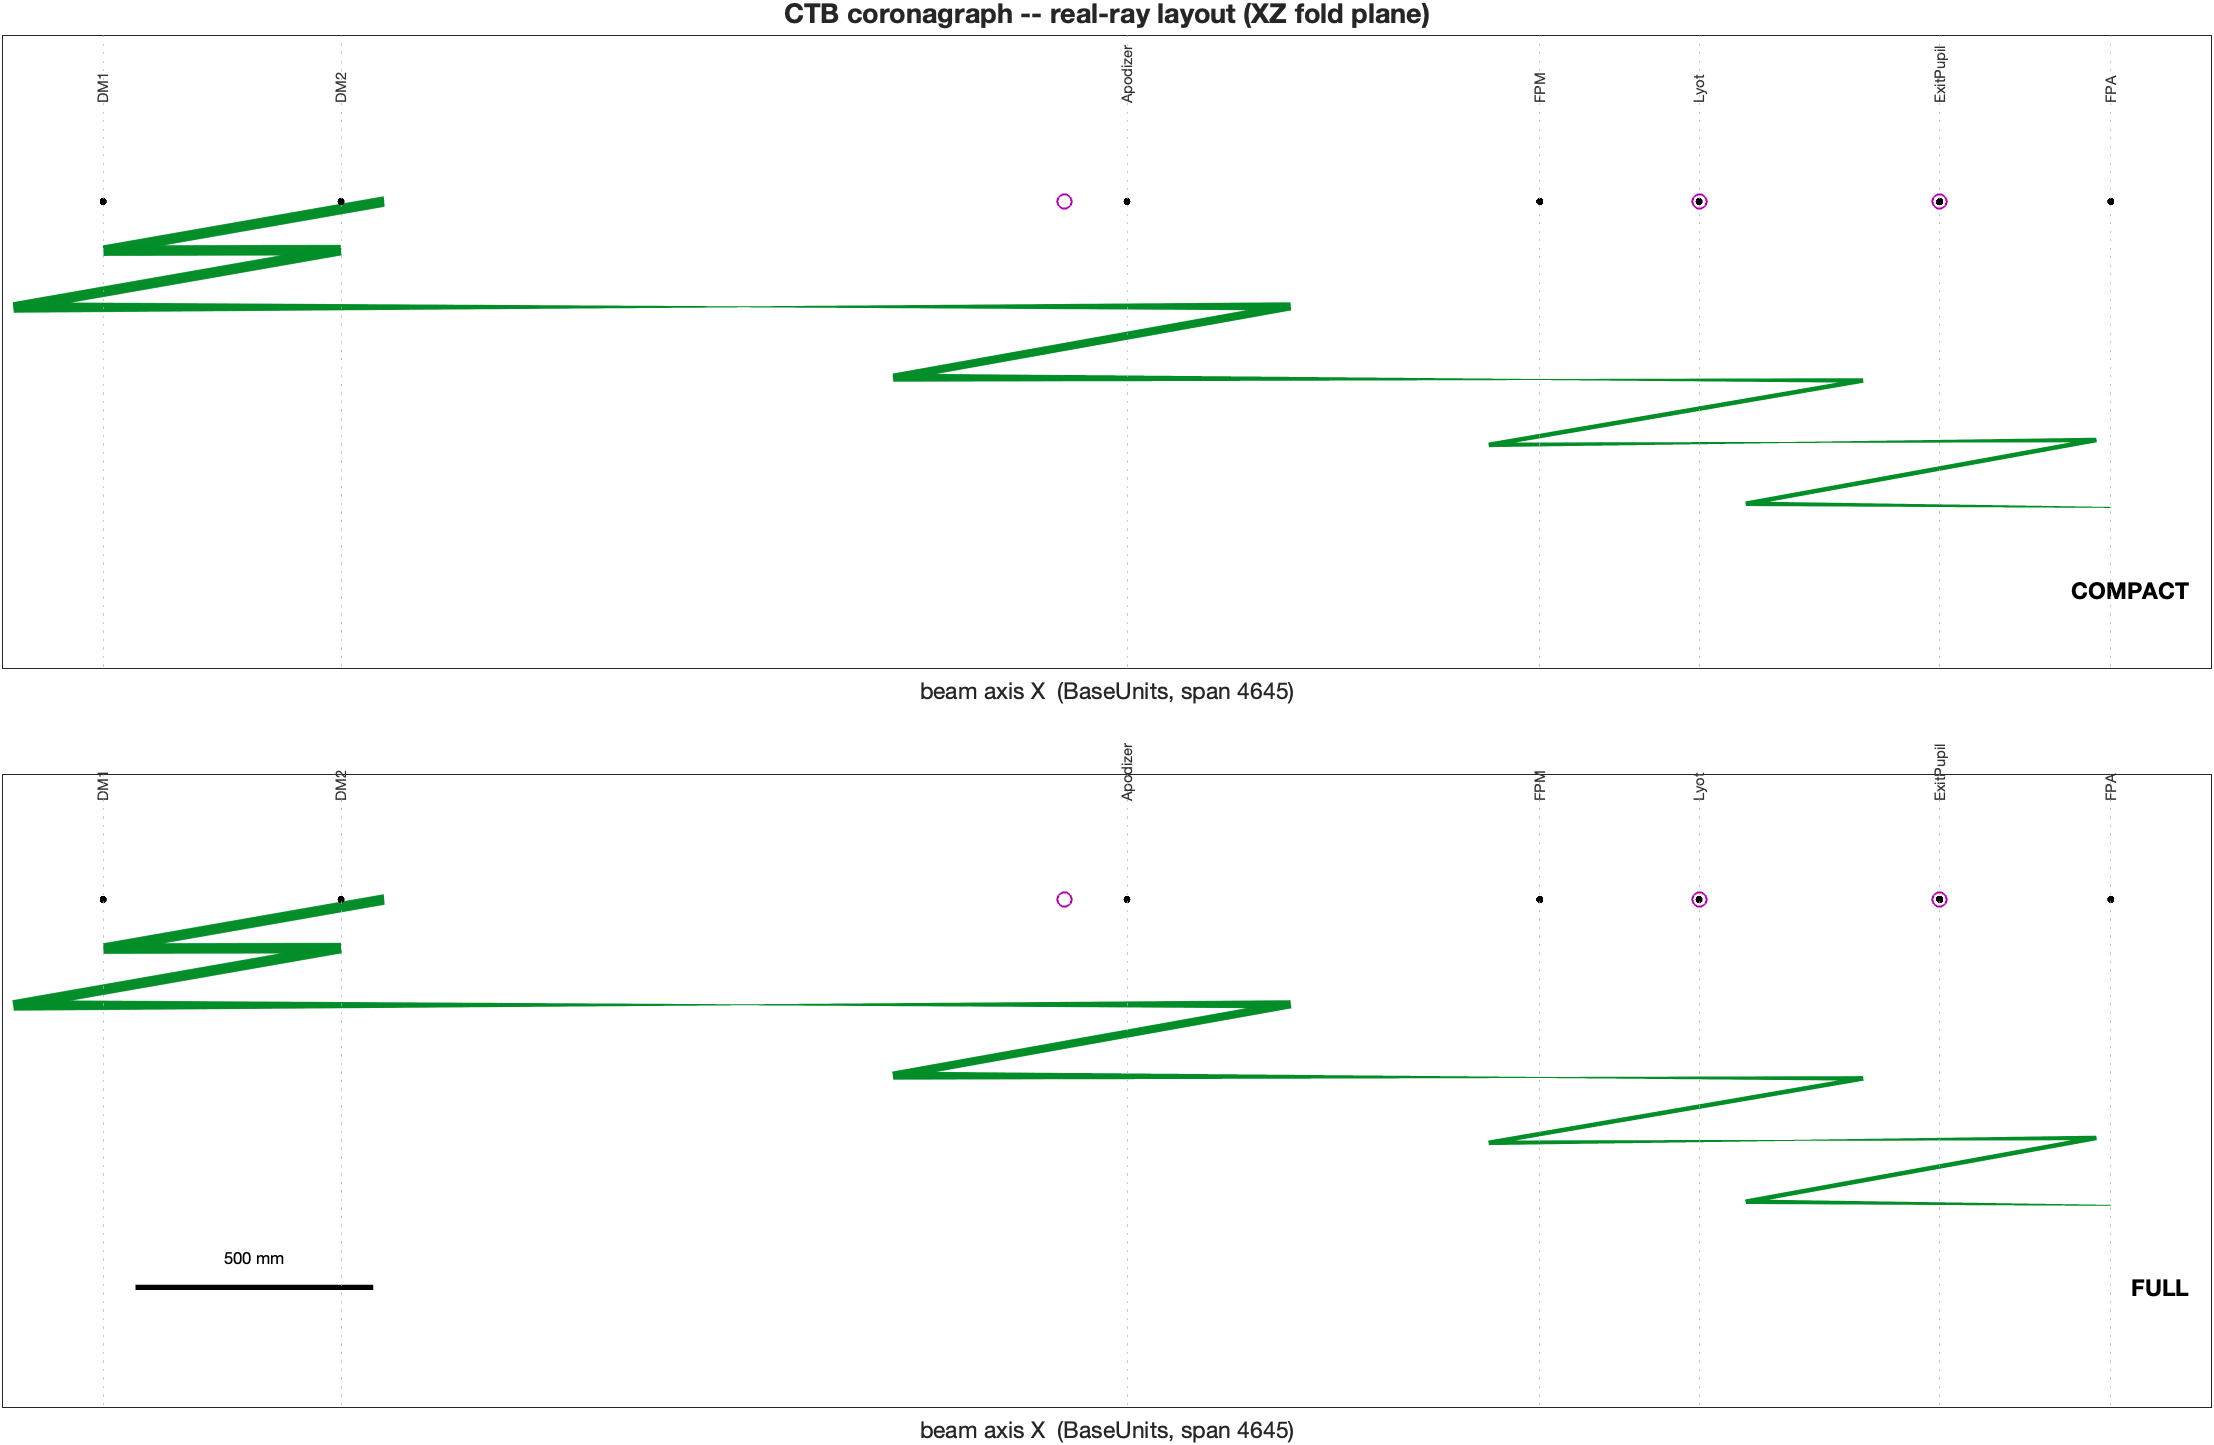
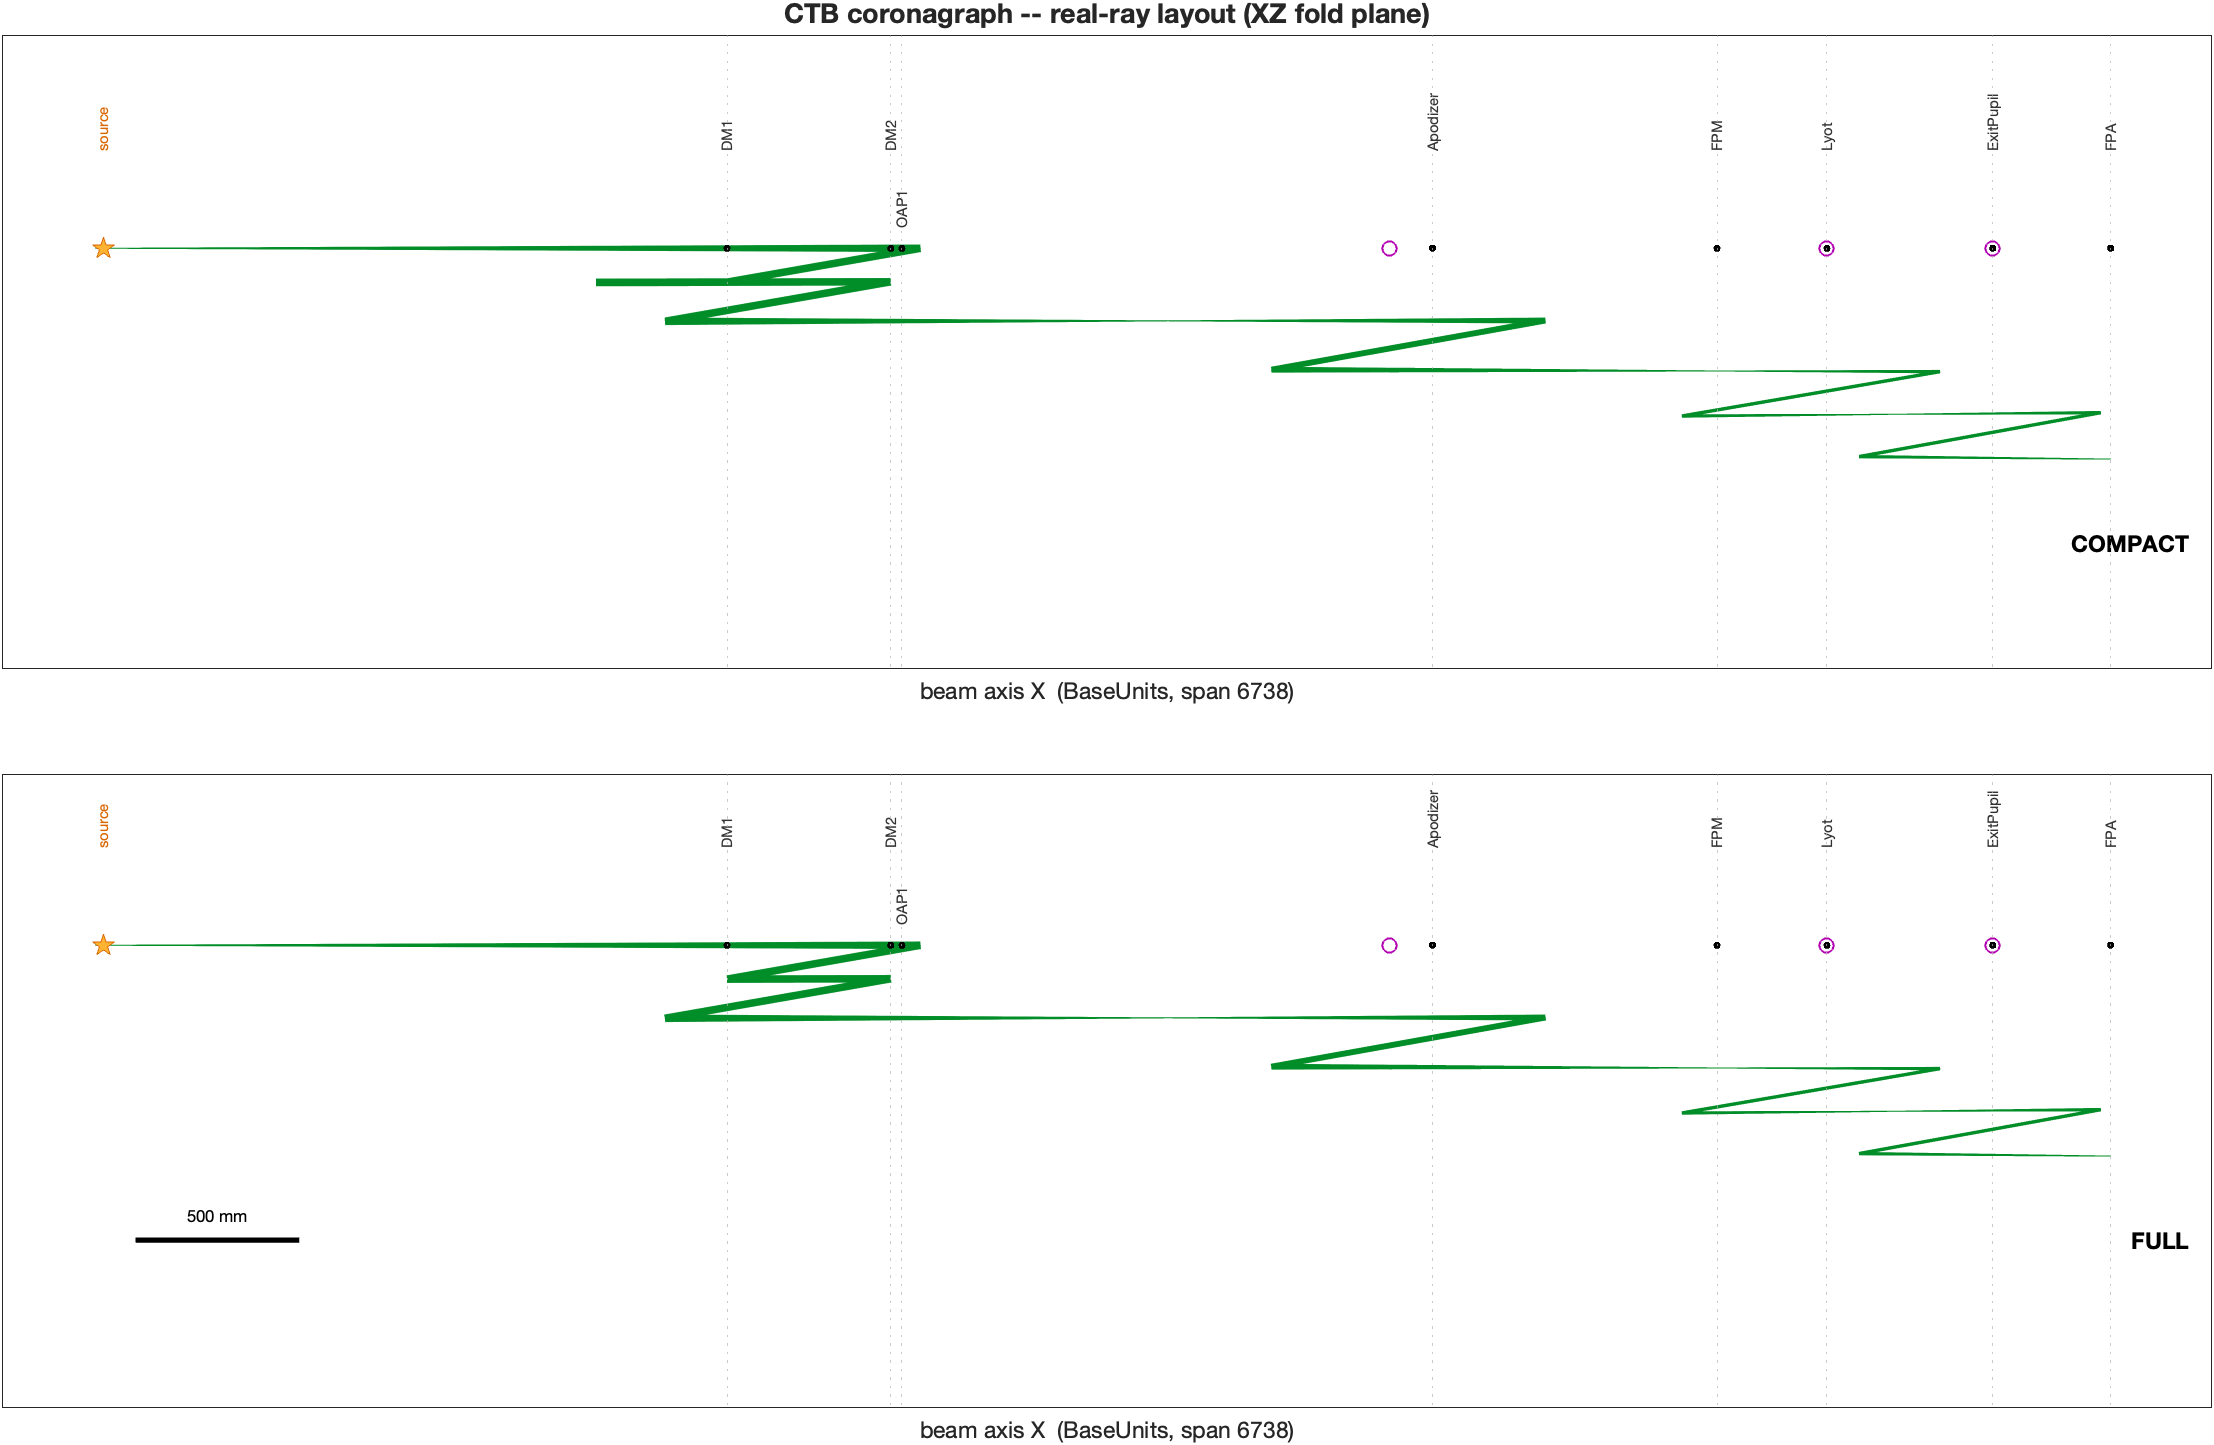
bench_ctb: train render -- add the source->OAP1 leg
The layout window was built only from the DM1..FPA station vertices, so
OAP1 (element 1) and the source fell off the left edge and the collimated
source->OAP1 input leg was missing.  Now the window spans OAP1's vertex +
the source ChfRayPos (get_src_fov); the source is marked with an orange
star and OAP1 is labelled (dropped lower to clear DM2, which sits at nearly
the same X on this folded bench).  Full path source->OAP1->DM1->...->FPA
is drawn.

diff --git a/mmacos/examples/design/bench_ctb/ctb_train_render.m b/mmacos/examples/design/bench_ctb/ctb_train_render.m
@@ -41,6 +41,9 @@ function out = ctb_train_render(opts)
             sx(end+1) = M(k).mark.(fn{i})(1); %#ok<AGROW>
             sy(end+1) = M(k).mark.(fn{i})(2); %#ok<AGROW>
         end
+        % include OAP1 + the source so the source->OAP1->DM1 leg is in-window
+        sx(end+1) = M(k).mark_OAP1(1); sy(end+1) = M(k).mark_OAP1(2); %#ok<AGROW>
+        sx(end+1) = M(k).src(1);       sy(end+1) = M(k).src(2);       %#ok<AGROW>
     end
     padx = 0.05*(max(sx)-min(sx));
     xl = [min(sx)-padx max(sx)+padx];
@@ -94,11 +97,21 @@ function m = local_model_(name, rx, elt, N)
         vp = macos.get_elt_vpt(elt.(fn{i}));       % [x;y;z] source coords
         m.mark.(fn{i}) = [vp(1); vp(3)];           % XZ -> (x, z)
     end
+    % OAP1 (element 1) + the source: the source->OAP1 leg is upstream of DM1
+    % and would otherwise fall off the left edge of a DM1..FPA window.
+    vp1 = macos.get_elt_vpt(1); m.mark_OAP1 = [vp1(1); vp1(3)];
+    sf = macos.get_src_fov();                      % ChfRayPos of the source
+    m.src = [sf.src_pos(1); sf.src_pos(3)];
     % EP reference sphere vertices (ExitPupil-1 is the NF1/FF sphere set)
     m.ep_sphere = [];
     for s = [elt.FPM-1, elt.Lyot, elt.ExitPupil]     % sphere / pupil marks
         try, vp = macos.get_elt_vpt(s); m.ep_sphere(:,end+1) = [vp(1);vp(3)]; catch, end
     end
+end
+
+function p = merge_mark_(m, nm)
+% station mark by name; OAP1 lives in its own field (mark_OAP1).
+    if strcmp(nm,'OAP1'), p = m.mark_OAP1; else, p = m.mark.(nm); end
 end
 
 function draw_panel_(ax, m, xl, yl, want_bar)
@@ -117,19 +130,32 @@ function draw_panel_(ax, m, xl, yl, want_bar)
         if nnz(in) < 2, continue; end
         plot(ax, u(in), v(in), '-', 'Color',[0 0.55 0.15 0.35], 'LineWidth',0.4);
     end
-    % mask-plane station markers + labels off the ray lines
-    stn = {'DM1','DM2','Apodizer','FPM','Lyot','ExitPupil','FPA'};
+    % mask-plane station markers + labels off the ray lines (OAP1 first, then
+    % the DM1..FPA stations); label struct fields are pulled by name.
+    stn  = {'OAP1','DM1','DM2','Apodizer','FPM','Lyot','ExitPupil','FPA'};
+    pmark = @(nm) merge_mark_(m, nm);
+    % OAP1 sits at nearly the same X as DM2 on this folded bench, so drop its
+    % label lower to avoid overprinting the DM2 label.
+    ytop = yl(2)-0.08*(yl(2)-yl(1));
+    ylow = yl(2)-0.24*(yl(2)-yl(1));
     for i = 1:numel(stn)
-        p = m.mark.(stn{i});
+        p = pmark(stn{i});
         plot(ax, p(1), p(2), 'k.', 'MarkerSize',9);
-        % label above the axis top so it never sits on a ray
-        text(ax, p(1), yl(2)-0.08*(yl(2)-yl(1)), stn{i}, ...
+        ytxt = ytop; if strcmp(stn{i},'OAP1'), ytxt = ylow; end
+        text(ax, p(1), ytxt, stn{i}, ...
             'Rotation',90, 'FontSize',7, 'Interpreter','none', ...
             'HorizontalAlignment','left','VerticalAlignment','middle', ...
             'Color',[0.2 0.2 0.2]);
         xline(ax, p(1), ':', 'Color',[0.7 0.7 0.7], 'LineWidth',0.3, ...
             'HandleVisibility','off');
     end
+    % the source (chief-ray origin) -- distinct marker
+    plot(ax, m.src(1), m.src(2), 'p', 'MarkerEdgeColor',[0.85 0.4 0], ...
+        'MarkerFaceColor',[1 0.7 0.2], 'MarkerSize',11);
+    text(ax, m.src(1), yl(2)-0.08*(yl(2)-yl(1)), 'source', ...
+        'Rotation',90,'FontSize',7,'Interpreter','none', ...
+        'HorizontalAlignment','left','VerticalAlignment','middle', ...
+        'Color',[0.85 0.4 0]);
     % EP reference spheres (magenta rings)
     if ~isempty(m.ep_sphere)
         plot(ax, m.ep_sphere(1,:), m.ep_sphere(2,:), 'o', ...

diff --git a/mmacos/examples/design/bench_ctb/CTB_PROP_STATUS.md b/mmacos/examples/design/bench_ctb/CTB_PROP_STATUS.md
@@ -55,6 +55,14 @@ vs the old shallow occulter's 1.02x) -- an honest deep-vs-broadband trade.
    between elements).  Now keeps all in-window crossings and draws ONE
    polyline through them -> continuous fold path DM1->FPA.
 
+5. **SOURCE->OAP1 leg -- ADDED.**  The window was built only from the
+   DM1..FPA station vertices, so OAP1 (element 1) and the source fell off
+   the left edge.  Now the window also spans OAP1's vertex + the source
+   ChfRayPos (get_src_fov), the source is marked with an orange star, and
+   OAP1 is labelled (dropped lower to clear DM2, which sits at nearly the
+   same X on this folded bench).  Full path source->OAP1->DM1->...->FPA
+   is shown.
+
 ---
 
 
